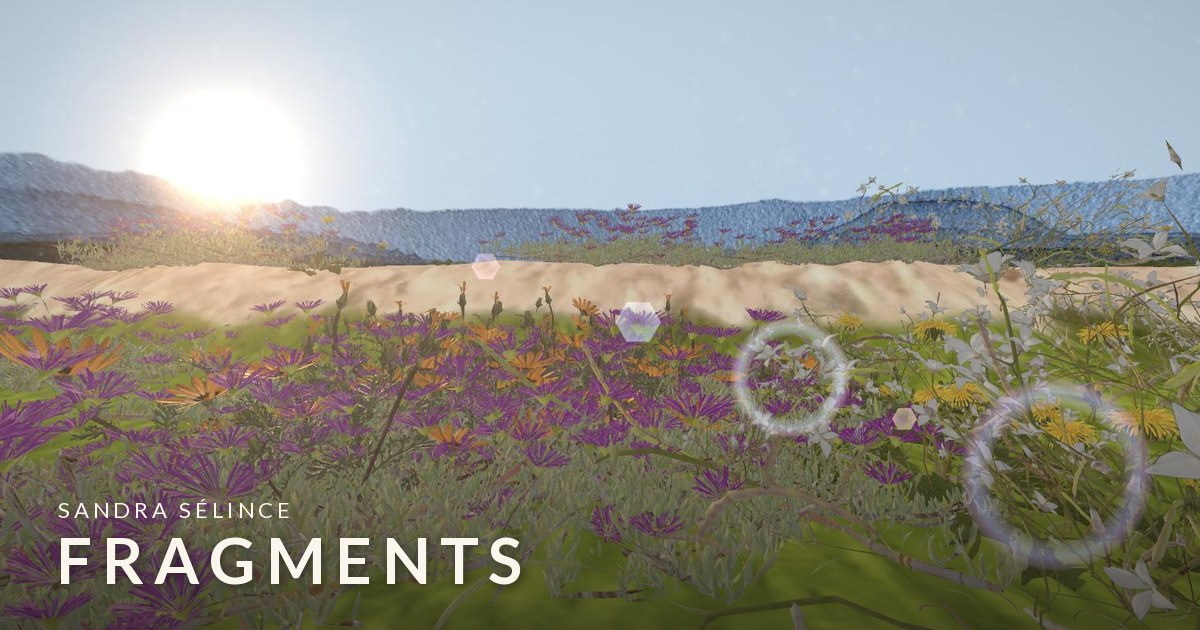
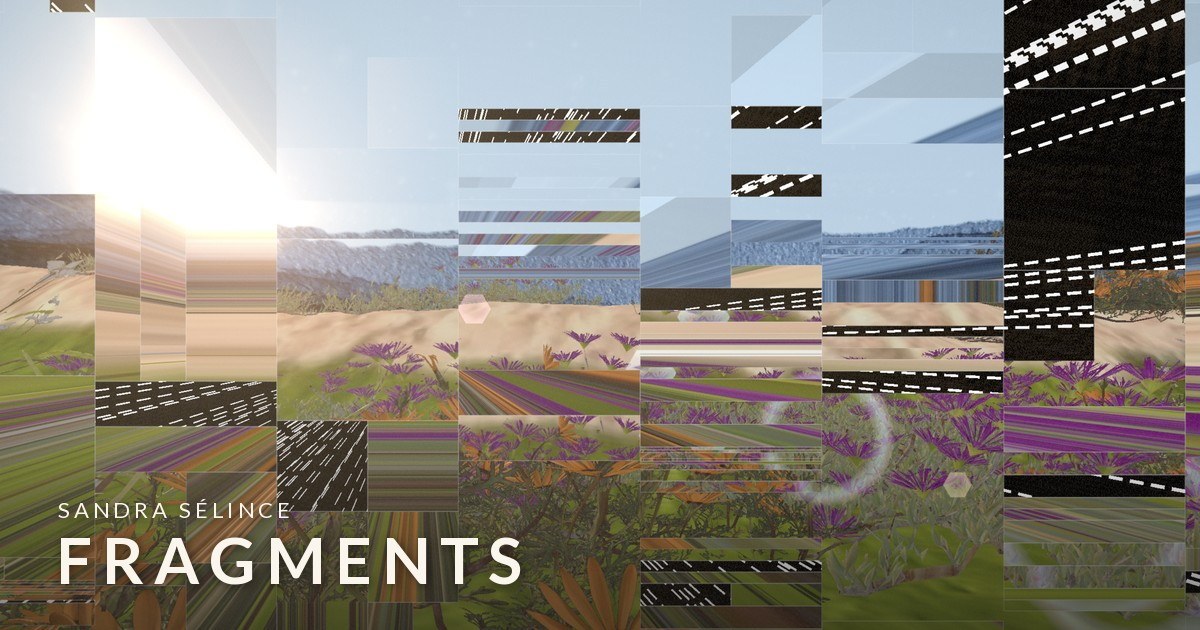
Nouvelle image d'aperçu

diff --git a/galerie.html b/galerie.html
@@ -14,7 +14,7 @@
     <meta property="og:title" content="Fragments — Sandra Sélince" />
     <meta property="og:description" content="Sandra Sélince, plasticienne : des paysages en collage et aquarelle qui deviennent des mondes où l'on peut marcher." />
     <meta property="og:url" content="https://fragments-selince.vercel.app/galerie.html" />
-    <meta property="og:image" content="https://fragments-selince.vercel.app/og-image.jpg" />
+    <meta property="og:image" content="https://fragments-selince.vercel.app/og-image.jpg?v=2" />
     <meta property="og:image:width" content="1200" />
     <meta property="og:image:height" content="630" />
     <meta name="twitter:card" content="summary_large_image" />

diff --git a/about.html b/about.html
@@ -13,7 +13,7 @@
     <meta property="og:title" content="About — Sandra Sélince" />
     <meta property="og:description" content="Sandra Sélince, plasticienne : des paysages en collage et aquarelle qui deviennent des mondes où l'on peut marcher." />
     <meta property="og:url" content="https://fragments-selince.vercel.app/about.html" />
-    <meta property="og:image" content="https://fragments-selince.vercel.app/og-image.jpg" />
+    <meta property="og:image" content="https://fragments-selince.vercel.app/og-image.jpg?v=2" />
     <meta property="og:image:width" content="1200" />
     <meta property="og:image:height" content="630" />
     <meta name="twitter:card" content="summary_large_image" />

diff --git a/ar.html b/ar.html
@@ -14,7 +14,7 @@
     <meta property="og:title" content="AR — Sandra Sélince" />
     <meta property="og:description" content="Sandra Sélince, plasticienne : des paysages en collage et aquarelle qui deviennent des mondes où l'on peut marcher." />
     <meta property="og:url" content="https://fragments-selince.vercel.app/ar.html" />
-    <meta property="og:image" content="https://fragments-selince.vercel.app/og-image.jpg" />
+    <meta property="og:image" content="https://fragments-selince.vercel.app/og-image.jpg?v=2" />
     <meta property="og:image:width" content="1200" />
     <meta property="og:image:height" content="630" />
     <meta name="twitter:card" content="summary_large_image" />

diff --git a/index.html b/index.html
@@ -14,7 +14,7 @@
     <meta property="og:title" content="Fragments — Sandra Sélince" />
     <meta property="og:description" content="Sandra Sélince, plasticienne : des paysages en collage et aquarelle qui deviennent des mondes où l'on peut marcher." />
     <meta property="og:url" content="https://fragments-selince.vercel.app/" />
-    <meta property="og:image" content="https://fragments-selince.vercel.app/og-image.jpg" />
+    <meta property="og:image" content="https://fragments-selince.vercel.app/og-image.jpg?v=2" />
     <meta property="og:image:width" content="1200" />
     <meta property="og:image:height" content="630" />
     <meta name="twitter:card" content="summary_large_image" />
